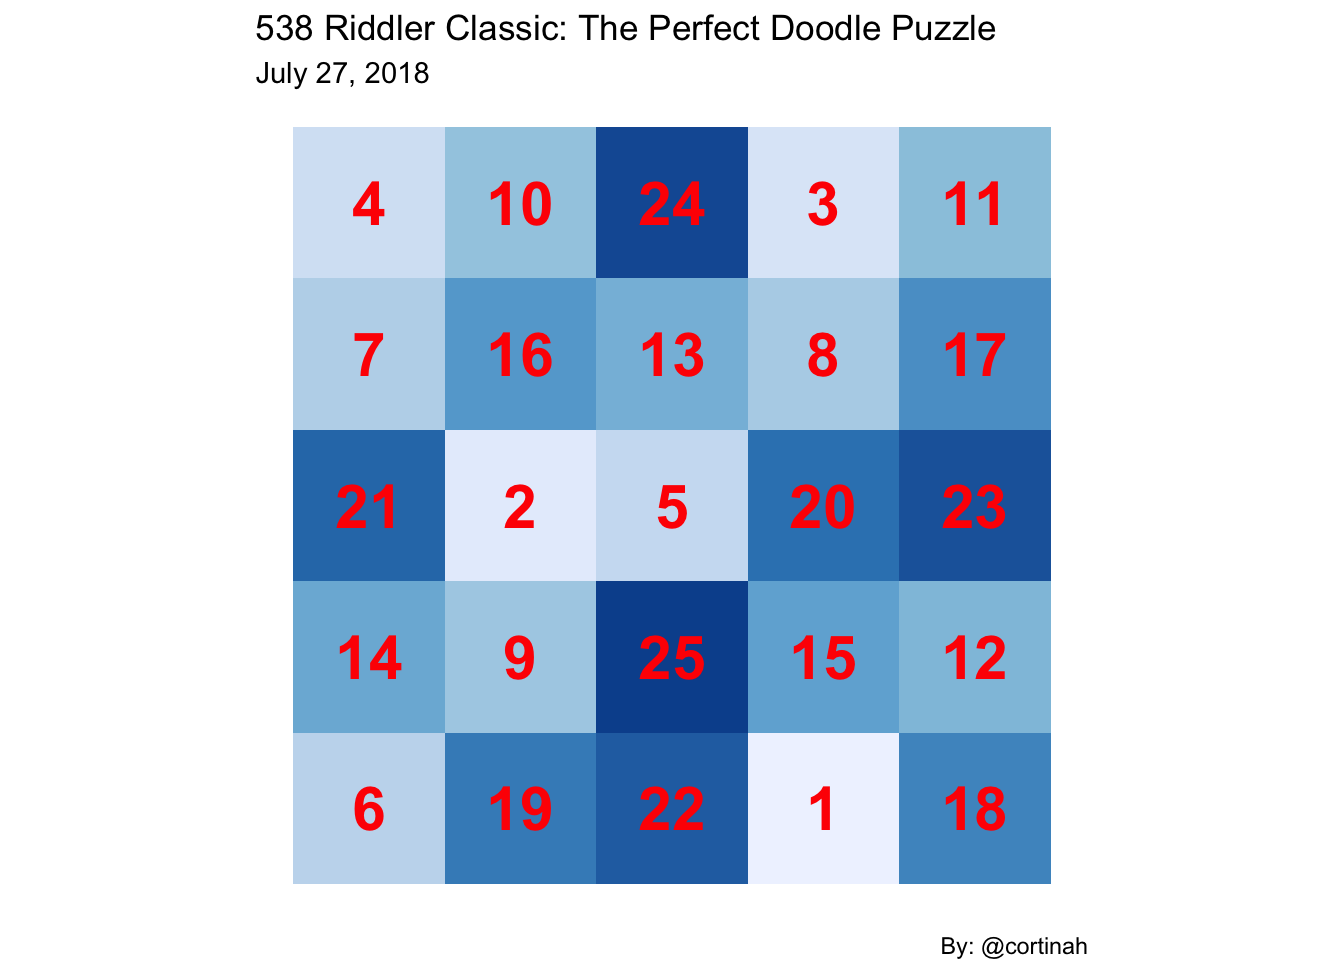
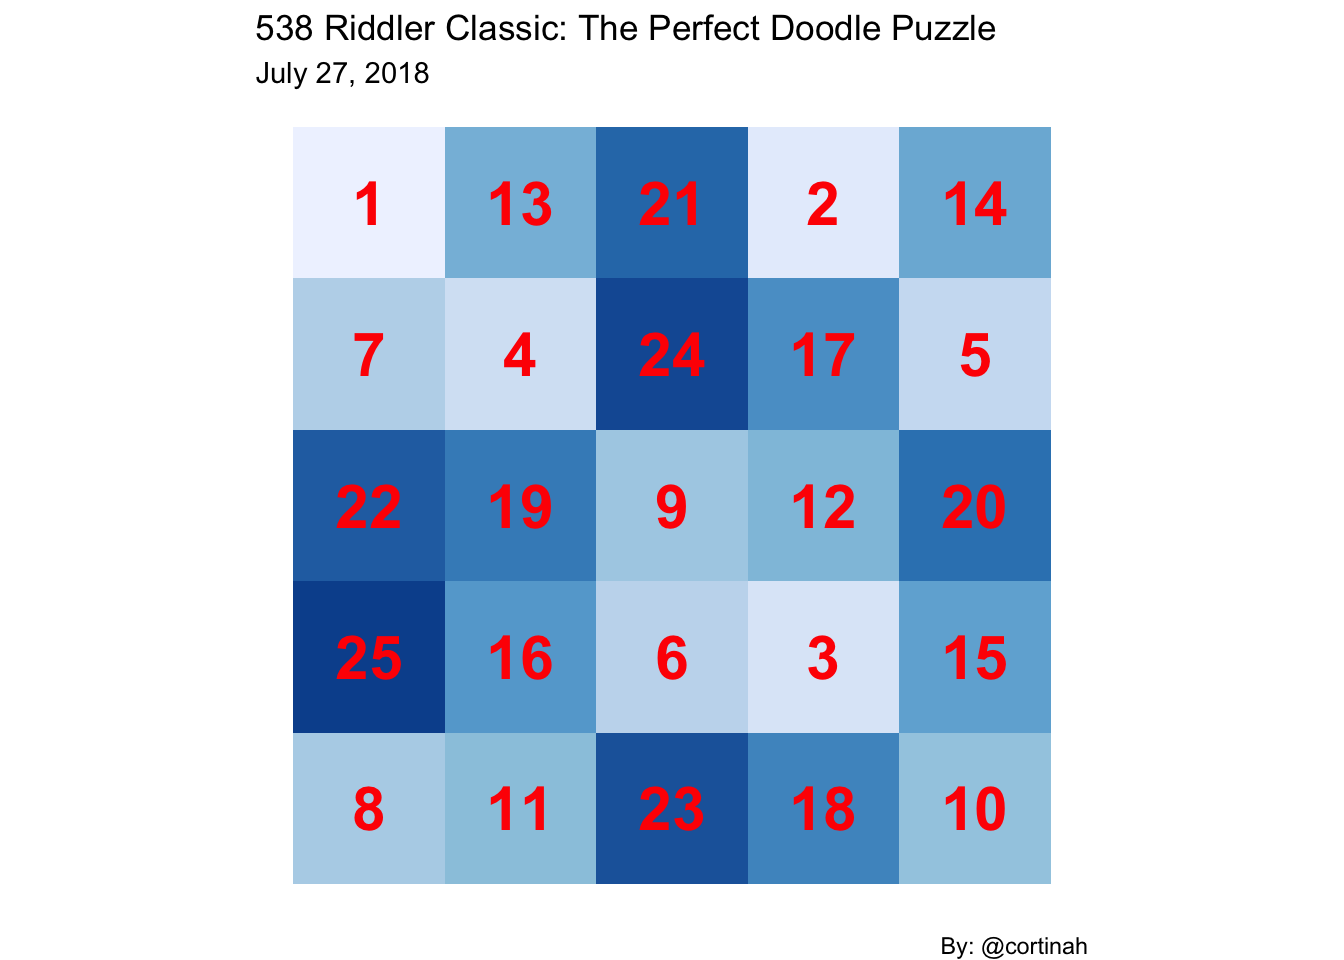
Corrent image display issues

diff --git a/content/post/2018-08-05-riddler-classic-the-perfect-doodle-puzzle.html b/content/post/2018-08-05-riddler-classic-the-perfect-doodle-puzzle.html
@@ -110,10 +110,8 @@ ggplot(path,aes(x,y,fill=step)) +geom_tile() +scale_fill_distiller(direction = 1
 <p>I was fortunate to once again, together with <a href="http://lukebenz.com">Luke Benz</a>, receive a <a href="https://fivethirtyeight.com/features/the-eternal-question-how-much-do-these-apricots-weigh/">mention</a> by Ollie last week.</p>
 <div id="thanks-again-ollie-p.s.-that-wasnt-a-work-meeting-of-course" class="section level3">
 <h3><a href="https://fivethirtyeight.com/features/the-eternal-question-how-much-do-these-apricots-weigh/">Thanks again, Ollie!</a> P.S.: That wasn’t a work meeting of course…</h3>
-<div class="figure">
-<img src="/post/2018-08-05-riddler-classic-the-perfect-doodle-puzzle_files/doodle.png" alt="Ollie’s Shout Out" style="width:60.0%" />
-<p class="caption">Ollie’s Shout Out</p>
-</div>
+<p><img src="/images/PerfectDoodle/doodle.png" style="display: block; margin: auto;" width="75%" height="75%"/></p>
+<p>Note: My submitted answer is different from the one generated from the above code due to the randomness in the search process. Should have set.seed() in my original submission to make it reproducible.</p>
 </div>
 </div>
 <div id="epilogue" class="section level2">

diff --git a/themes/hugo-lithium-theme/static/css/main.css b/themes/hugo-lithium-theme/static/css/main.css
@@ -246,7 +246,7 @@ code {
   margin-left: 2px;
 }
 
-@media (min-width: 800px) {
+@media (min-width: 600px) {
   .header {
     padding: 25px 0;
   }
@@ -270,6 +270,7 @@ code {
   .content {
     font-size: 19px;
     line-height: 1.8;
+    max-width: 800px;
   }
 
   .highlight {
